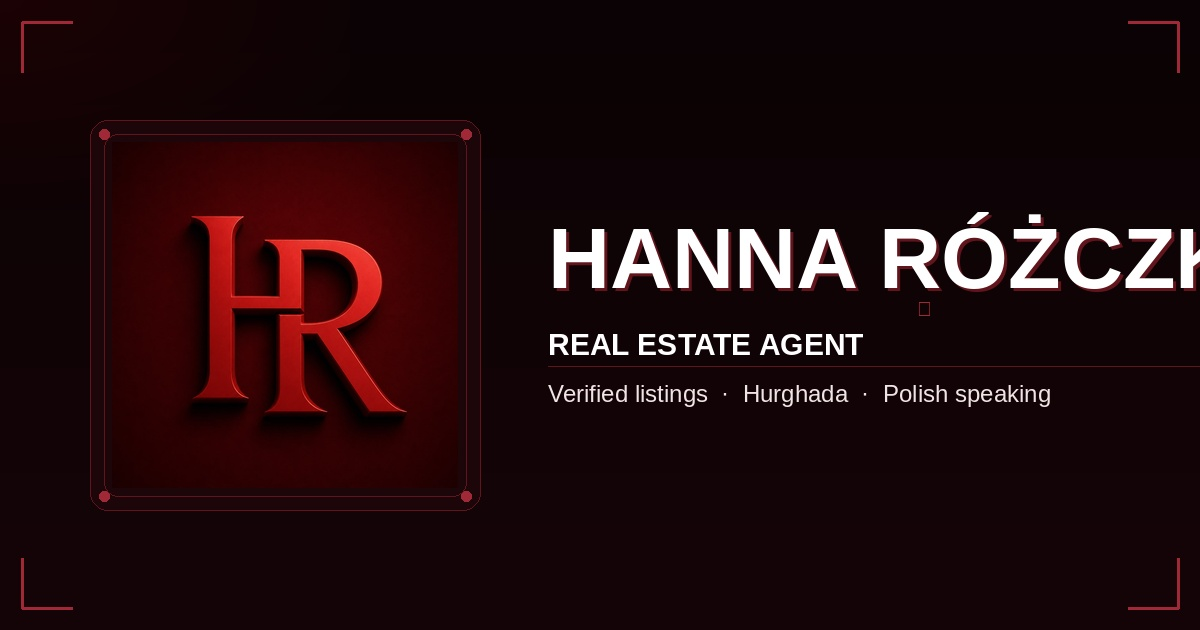
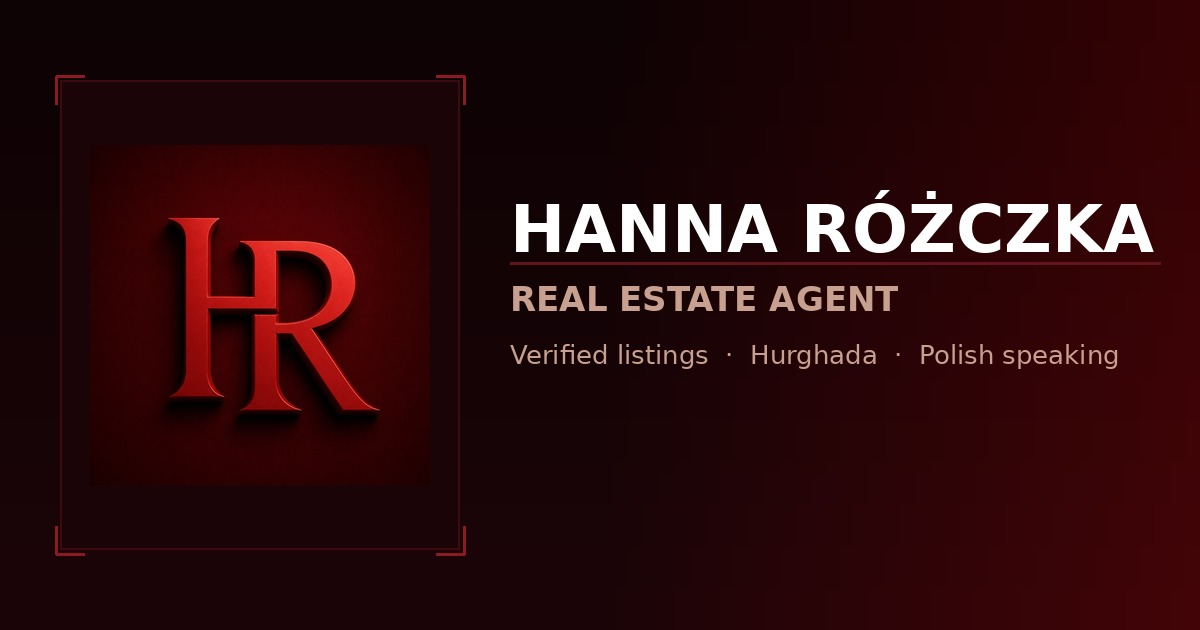
Regenerate OG image with auto-sized name to prevent cutoff; bump to v4
https://claude.ai/code/session_01WAhozrkpHjnLaSggNzZKif

diff --git a/hanna.html b/hanna.html
@@ -8,12 +8,12 @@
   <meta property="og:type"        content="website" />
   <meta property="og:title"       content="Hanna Różczka · Real Estate Agent · Homes Bay Hurghada" />
   <meta property="og:description" content="Verified Red Sea properties. Polish-speaking. 12 listings. Contact me directly on WhatsApp." />
-  <meta property="og:image"       content="https://seifabas33-pixel.github.io/splash-entertainment/assets/hanna-og.jpg" />
+  <meta property="og:image"       content="https://seifabas33-pixel.github.io/splash-entertainment/assets/hanna-og.jpg?v=4" />
   <meta property="og:image:width"  content="1200" />
   <meta property="og:image:height" content="630" />
   <meta property="og:url"         content="https://seifabas33-pixel.github.io/splash-entertainment/hanna.html" />
   <meta name="twitter:card"       content="summary_large_image" />
-  <meta name="twitter:image"      content="https://seifabas33-pixel.github.io/splash-entertainment/assets/hanna-og.jpg" />
+  <meta name="twitter:image"      content="https://seifabas33-pixel.github.io/splash-entertainment/assets/hanna-og.jpg?v=4" />
   <meta name="theme-color" content="#61141c" />
   <link rel="manifest" href="hanna-manifest.json" />
   <link rel="apple-touch-icon" href="assets/hanna-apple-touch.png" />

diff --git a/hanna-card.html b/hanna-card.html
@@ -8,12 +8,12 @@
   <meta property="og:type"        content="website" />
   <meta property="og:title"       content="Hanna Różczka · Real Estate Agent · Homes Bay" />
   <meta property="og:description" content="Verified Red Sea properties. Polish-speaking. Contact me on WhatsApp or email." />
-  <meta property="og:image"       content="https://seifabas33-pixel.github.io/splash-entertainment/assets/hanna-og.jpg" />
+  <meta property="og:image"       content="https://seifabas33-pixel.github.io/splash-entertainment/assets/hanna-og.jpg?v=4" />
   <meta property="og:image:width"  content="1200" />
   <meta property="og:image:height" content="630" />
   <meta property="og:url"         content="https://seifabas33-pixel.github.io/splash-entertainment/hanna-card.html" />
   <meta name="twitter:card"       content="summary_large_image" />
-  <meta name="twitter:image"      content="https://seifabas33-pixel.github.io/splash-entertainment/assets/hanna-og.jpg" />
+  <meta name="twitter:image"      content="https://seifabas33-pixel.github.io/splash-entertainment/assets/hanna-og.jpg?v=4" />
   <meta name="theme-color" content="#61141c" />
   <link rel="manifest" href="hanna-manifest.json" />
   <link rel="apple-touch-icon" href="assets/hanna-apple-touch.png" />
